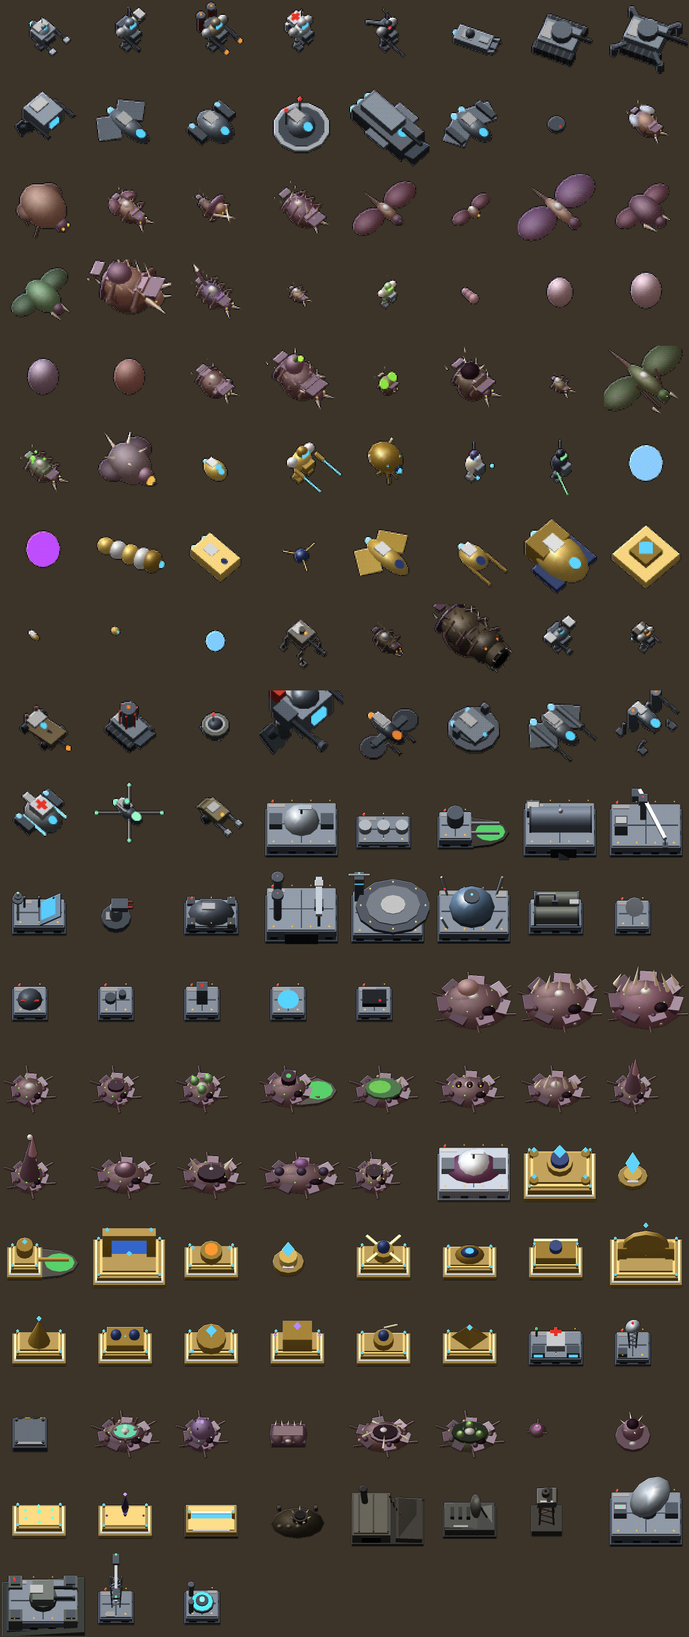
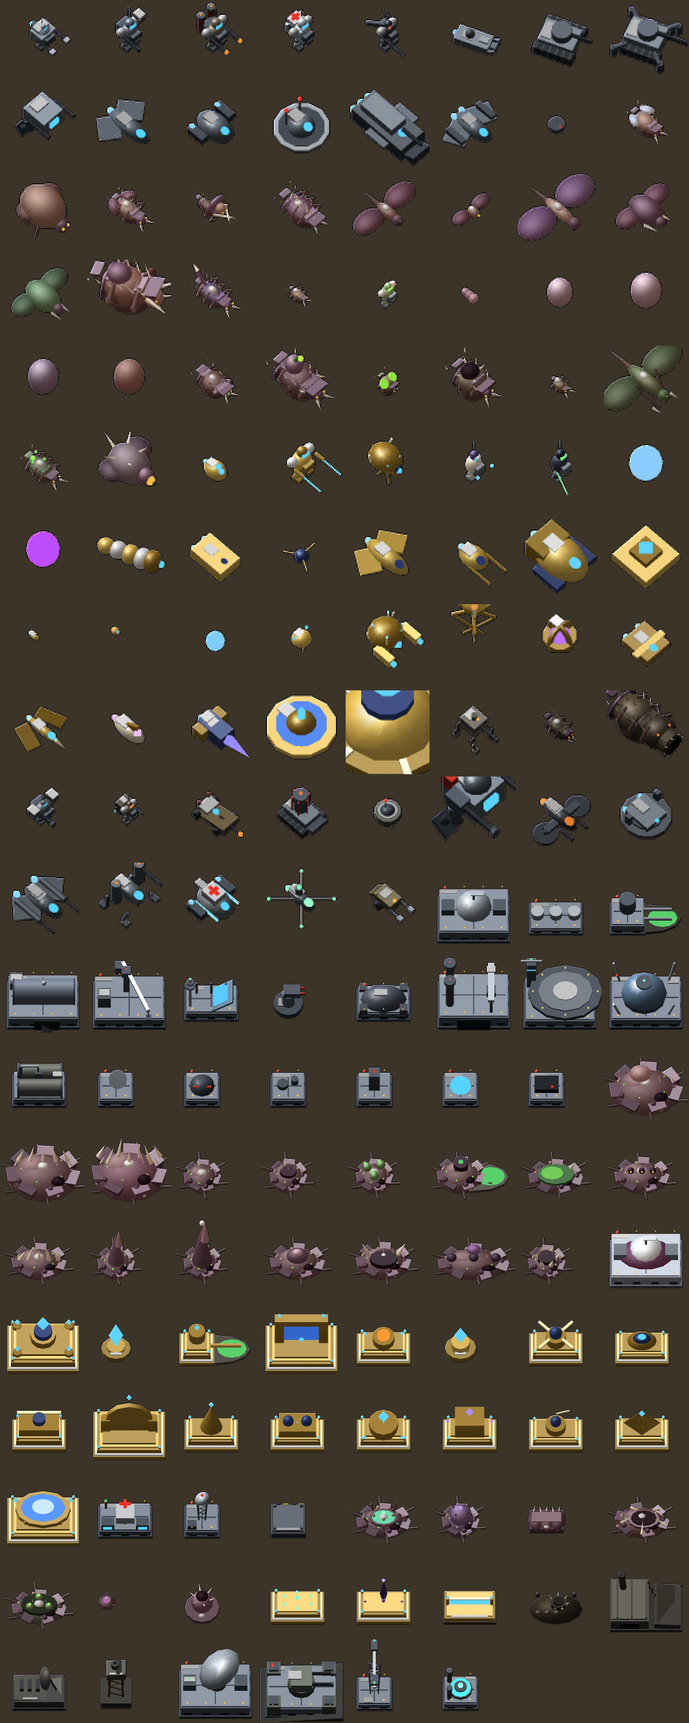
Bake the Protoss sprites and register test/zerg12.js
The Zerg test shipped passing but was never added to test/all.js, so it was green and unrun.

diff --git a/assets/atlas.js b/assets/atlas.js
@@ -1,2 +1,2 @@
 // generated by tools/bake.js
-const SPRITE_ATLAS = {"el":50,"dirs":16,"walk":8,"atk":5,"idle":4,"dvar":3,"dframes":2,"death":6,"units":{"scv":{"file":"assets/sprites/scv.png","mask":"assets/sprites/scv_m.png","S":93,"cols":16,"rows":{"i":0,"w":4,"a":12,"d":17}},"marine":{"file":"assets/sprites/marine.png","mask":"assets/sprites/marine_m.png","S":107,"cols":16,"rows":{"i":0,"w":4,"a":12,"d":17}},"firebat":{"file":"assets/sprites/firebat.png","mask":"assets/sprites/firebat_m.png","S":107,"cols":16,"rows":{"i":0,"w":4,"a":12,"d":17}},"medic":{"file":"assets/sprites/medic.png","mask":"assets/sprites/medic_m.png","S":107,"cols":16,"rows":{"i":0,"w":4,"a":12,"d":17}},"ghost":{"file":"assets/sprites/ghost.png","mask":"assets/sprites/ghost_m.png","S":104,"cols":16,"rows":{"i":0,"w":4,"a":12,"d":17}},"vulture":{"file":"assets/sprites/vulture.png","mask":"assets/sprites/vulture_m.png","S":98,"cols":32,"rows":{"i":0,"w":4,"a":12,"d":17}},"siege_tank":{"file":"assets/sprites/siege_tank.png","mask":"assets/sprites/siege_tank_m.png","S":106,"cols":32,"rows":{"i":0,"w":4,"a":12,"d":17}},"siege_tank_s":{"file":"assets/sprites/siege_tank_s.png","mask":"assets/sprites/siege_tank_s_m.png","S":106,"cols":32,"rows":{"i":0,"w":4,"a":12,"d":17}},"goliath":{"file":"assets/sprites/goliath.png","mask":"assets/sprites/goliath_m.png","S":112,"cols":16,"rows":{"i":0,"w":4,"a":12,"d":17}},"wraith":{"file":"assets/sprites/wraith.png","mask":"assets/sprites/wraith_m.png","S":112,"cols":16,"rows":{"i":0,"w":4,"a":12}},"dropship":{"file":"assets/sprites/dropship.png","mask":"assets/sprites/dropship_m.png","S":106,"cols":16,"rows":{"i":0,"w":4,"a":12}},"science_vessel":{"file":"assets/sprites/science_vessel.png","mask":"assets/sprites/science_vessel_m.png","S":118,"cols":16,"rows":{"i":0,"w":4,"a":12}},"battlecruiser":{"file":"assets/sprites/battlecruiser.png","mask":"assets/sprites/battlecruiser_m.png","S":141,"cols":16,"rows":{"i":0,"w":4,"a":12}},"valkyrie":{"file":"assets/sprites/valkyrie.png","mask":"assets/sprites/valkyrie_m.png","S":106,"cols":16,"rows":{"i":0,"w":4,"a":12}},"spider_mine":{"file":"assets/sprites/spider_mine.png","mask":"assets/sprites/spider_mine_m.png","S":67,"cols":16,"rows":{"i":0,"w":4,"a":12,"d":17}},"drone":{"file":"assets/sprites/drone.png","mask":"assets/sprites/drone_m.png","S":93,"cols":16,"rows":{"i":0,"w":4,"a":12,"d":17}},"overlord":{"file":"assets/sprites/overlord.png","mask":"assets/sprites/overlord_m.png","S":118,"cols":16,"rows":{"i":0,"w":4,"a":12}},"zergling":{"file":"assets/sprites/zergling.png","mask":"assets/sprites/zergling_m.png","S":97,"cols":16,"rows":{"i":0,"w":4,"a":12,"d":17}},"hydralisk":{"file":"assets/sprites/hydralisk.png","mask":"assets/sprites/hydralisk_m.png","S":84,"cols":16,"rows":{"i":0,"w":4,"a":12,"d":17}},"lurker":{"file":"assets/sprites/lurker.png","mask":"assets/sprites/lurker_m.png","S":98,"cols":16,"rows":{"i":0,"w":4,"a":12,"d":17}},"mutalisk":{"file":"assets/sprites/mutalisk.png","mask":"assets/sprites/mutalisk_m.png","S":98,"cols":16,"rows":{"i":0,"w":4,"a":12}},"scourge":{"file":"assets/sprites/scourge.png","mask":"assets/sprites/scourge_m.png","S":84,"cols":16,"rows":{"i":0,"w":4,"a":12}},"queen":{"file":"assets/sprites/queen.png","mask":"assets/sprites/queen_m.png","S":112,"cols":16,"rows":{"i":0,"w":4,"a":12}},"guardian":{"file":"assets/sprites/guardian.png","mask":"assets/sprites/guardian_m.png","S":106,"cols":16,"rows":{"i":0,"w":4,"a":12}},"devourer":{"file":"assets/sprites/devourer.png","mask":"assets/sprites/devourer_m.png","S":106,"cols":16,"rows":{"i":0,"w":4,"a":12}},"ultralisk":{"file":"assets/sprites/ultralisk.png","mask":"assets/sprites/ultralisk_m.png","S":129,"cols":32,"rows":{"i":0,"w":4,"a":12,"d":17}},"defiler":{"file":"assets/sprites/defiler.png","mask":"assets/sprites/defiler_m.png","S":98,"cols":16,"rows":{"i":0,"w":4,"a":12,"d":17}},"broodling":{"file":"assets/sprites/broodling.png","mask":"assets/sprites/broodling_m.png","S":67,"cols":16,"rows":{"i":0,"w":4,"a":12,"d":17}},"infested_terran":{"file":"assets/sprites/infested_terran.png","mask":"assets/sprites/infested_terran_m.png","S":84,"cols":16,"rows":{"i":0,"w":4,"a":12,"d":17}},"larva":{"file":"assets/sprites/larva.png","mask":"assets/sprites/larva_m.png","S":67,"cols":16,"rows":{"i":0,"w":4,"a":12,"d":17}},"egg":{"file":"assets/sprites/egg.png","mask":"assets/sprites/egg_m.png","S":84,"cols":16,"rows":{"i":0,"w":4,"a":12,"d":17}},"lurker_egg":{"file":"assets/sprites/lurker_egg.png","mask":"assets/sprites/lurker_egg_m.png","S":98,"cols":16,"rows":{"i":0,"w":4,"a":12,"d":17}},"cocoon":{"file":"assets/sprites/cocoon.png","mask":"assets/sprites/cocoon_m.png","S":98,"cols":16,"rows":{"i":0,"w":4,"a":12}},"brood_cocoon":{"file":"assets/sprites/brood_cocoon.png","mask":"assets/sprites/brood_cocoon_m.png","S":98,"cols":16,"rows":{"i":0,"w":4,"a":12,"d":17}},"roach":{"file":"assets/sprites/roach.png","mask":"assets/sprites/roach_m.png","S":91,"cols":16,"rows":{"i":0,"w":4,"a":12,"d":17}},"ravager":{"file":"assets/sprites/ravager.png","mask":"assets/sprites/ravager_m.png","S":112,"cols":16,"rows":{"i":0,"w":4,"a":12,"d":17}},"baneling":{"file":"assets/sprites/baneling.png","mask":"assets/sprites/baneling_m.png","S":84,"cols":16,"rows":{"i":0,"w":4,"a":12,"d":17}},"swarm_host":{"file":"assets/sprites/swarm_host.png","mask":"assets/sprites/swarm_host_m.png","S":105,"cols":16,"rows":{"i":0,"w":4,"a":12,"d":17}},"locust":{"file":"assets/sprites/locust.png","mask":"assets/sprites/locust_m.png","S":76,"cols":16,"rows":{"i":0,"w":4,"a":12,"d":17}},"viper":{"file":"assets/sprites/viper.png","mask":"assets/sprites/viper_m.png","S":112,"cols":16,"rows":{"i":0,"w":4,"a":12}},"infestor":{"file":"assets/sprites/infestor.png","mask":"assets/sprites/infestor_m.png","S":98,"cols":16,"rows":{"i":0,"w":4,"a":12,"d":17}},"overseer":{"file":"assets/sprites/overseer.png","mask":"assets/sprites/overseer_m.png","S":118,"cols":16,"rows":{"i":0,"w":4,"a":12}},"probe":{"file":"assets/sprites/probe.png","mask":"assets/sprites/probe_m.png","S":84,"cols":16,"rows":{"i":0,"w":4,"a":12,"d":17}},"zealot":{"file":"assets/sprites/zealot.png","mask":"assets/sprites/zealot_m.png","S":117,"cols":16,"rows":{"i":0,"w":4,"a":12,"d":17}},"dragoon":{"file":"assets/sprites/dragoon.png","mask":"assets/sprites/dragoon_m.png","S":112,"cols":16,"rows":{"i":0,"w":4,"a":12,"d":17}},"high_templar":{"file":"assets/sprites/high_templar.png","mask":"assets/sprites/high_templar_m.png","S":101,"cols":16,"rows":{"i":0,"w":4,"a":12,"d":17}},"dark_templar":{"file":"assets/sprites/dark_templar.png","mask":"assets/sprites/dark_templar_m.png","S":105,"cols":16,"rows":{"i":0,"w":4,"a":12,"d":17}},"archon":{"file":"assets/sprites/archon.png","mask":"assets/sprites/archon_m.png","S":106,"cols":16,"rows":{"i":0,"w":4,"a":12,"d":17}},"dark_archon":{"file":"assets/sprites/dark_archon.png","mask":"assets/sprites/dark_archon_m.png","S":106,"cols":16,"rows":{"i":0,"w":4,"a":12,"d":17}},"reaver":{"file":"assets/sprites/reaver.png","mask":"assets/sprites/reaver_m.png","S":118,"cols":32,"rows":{"i":0,"w":4,"a":12,"d":17}},"shuttle":{"file":"assets/sprites/shuttle.png","mask":"assets/sprites/shuttle_m.png","S":106,"cols":16,"rows":{"i":0,"w":4,"a":12}},"observer":{"file":"assets/sprites/observer.png","mask":"assets/sprites/observer_m.png","S":84,"cols":16,"rows":{"i":0,"w":4,"a":12}},"scout":{"file":"assets/sprites/scout.png","mask":"assets/sprites/scout_m.png","S":112,"cols":16,"rows":{"i":0,"w":4,"a":12}},"corsair":{"file":"assets/sprites/corsair.png","mask":"assets/sprites/corsair_m.png","S":112,"cols":16,"rows":{"i":0,"w":4,"a":12}},"carrier":{"file":"assets/sprites/carrier.png","mask":"assets/sprites/carrier_m.png","S":141,"cols":16,"rows":{"i":0,"w":4,"a":12}},"arbiter":{"file":"assets/sprites/arbiter.png","mask":"assets/sprites/arbiter_m.png","S":118,"cols":16,"rows":{"i":0,"w":4,"a":12}},"interceptor":{"file":"assets/sprites/interceptor.png","mask":"assets/sprites/interceptor_m.png","S":58,"cols":16,"rows":{"i":0,"w":4,"a":12}},"scarab":{"file":"assets/sprites/scarab.png","mask":"assets/sprites/scarab_m.png","S":49,"cols":16,"rows":{"i":0,"w":4,"a":12,"d":17}},"hallucination":{"file":"assets/sprites/hallucination.png","mask":"assets/sprites/hallucination_m.png","S":84,"cols":16,"rows":{"i":0,"w":4,"a":12,"d":17}},"sentinel":{"file":"assets/sprites/sentinel.png","mask":"assets/sprites/sentinel_m.png","S":101,"cols":16,"rows":{"i":0,"w":4,"a":12,"d":17}},"carrion_grub":{"file":"assets/sprites/carrion_grub.png","mask":"assets/sprites/carrion_grub_m.png","S":93,"cols":16,"rows":{"i":0,"w":4,"a":12,"d":17}},"carrion_maw":{"file":"assets/sprites/carrion_maw.png","mask":"assets/sprites/carrion_maw_m.png","S":129,"cols":16,"rows":{"i":0,"w":4,"a":12,"d":17}},"marauder":{"file":"assets/sprites/marauder.png","mask":"assets/sprites/marauder_m.png","S":84,"cols":16,"rows":{"i":0,"w":4,"a":12,"d":17}},"reaper":{"file":"assets/sprites/reaper.png","mask":"assets/sprites/reaper_m.png","S":84,"cols":16,"rows":{"i":0,"w":4,"a":12,"d":17}},"hellion":{"file":"assets/sprites/hellion.png","mask":"assets/sprites/hellion_m.png","S":98,"cols":16,"rows":{"i":0,"w":4,"a":12,"d":17}},"cyclone":{"file":"assets/sprites/cyclone.png","mask":"assets/sprites/cyclone_m.png","S":105,"cols":16,"rows":{"i":0,"w":4,"a":12,"d":17}},"widow_mine":{"file":"assets/sprites/widow_mine.png","mask":"assets/sprites/widow_mine_m.png","S":93,"cols":16,"rows":{"i":0,"w":4,"a":12,"d":17}},"thor":{"file":"assets/sprites/thor.png","mask":"assets/sprites/thor_m.png","S":129,"cols":16,"rows":{"i":0,"w":4,"a":12,"d":17}},"banshee":{"file":"assets/sprites/banshee.png","mask":"assets/sprites/banshee_m.png","S":112,"cols":16,"rows":{"i":0,"w":4,"a":12}},"liberator":{"file":"assets/sprites/liberator.png","mask":"assets/sprites/liberator_m.png","S":106,"cols":16,"rows":{"i":0,"w":4,"a":12}},"viking":{"file":"assets/sprites/viking.png","mask":"assets/sprites/viking_m.png","S":112,"cols":16,"rows":{"i":0,"w":4,"a":12}},"viking_a":{"file":"assets/sprites/viking_a.png","mask":"assets/sprites/viking_a_m.png","S":112,"cols":16,"rows":{"i":0,"w":4,"a":12,"d":17}},"medivac":{"file":"assets/sprites/medivac.png","mask":"assets/sprites/medivac_m.png","S":106,"cols":16,"rows":{"i":0,"w":4,"a":12}},"raven":{"file":"assets/sprites/raven.png","mask":"assets/sprites/raven_m.png","S":112,"cols":16,"rows":{"i":0,"w":4,"a":12}},"mule":{"file":"assets/sprites/mule.png","mask":"assets/sprites/mule_m.png","S":93,"cols":16,"rows":{"i":0,"w":4,"a":12,"d":17}}},"buildings":{"command_center":{"file":"assets/sprites/command_center.png","mask":"assets/sprites/command_center_m.png","W":128,"H":96,"M":18,"T":72},"supply_depot":{"file":"assets/sprites/supply_depot.png","mask":"assets/sprites/supply_depot_m.png","W":96,"H":64,"M":18,"T":72},"refinery":{"file":"assets/sprites/refinery.png","mask":"assets/sprites/refinery_m.png","W":128,"H":64,"M":18,"T":72},"barracks":{"file":"assets/sprites/barracks.png","mask":"assets/sprites/barracks_m.png","W":128,"H":96,"M":18,"T":72},"engineering_bay":{"file":"assets/sprites/engineering_bay.png","mask":"assets/sprites/engineering_bay_m.png","W":128,"H":96,"M":18,"T":72},"academy":{"file":"assets/sprites/academy.png","mask":"assets/sprites/academy_m.png","W":96,"H":64,"M":18,"T":72},"missile_turret":{"file":"assets/sprites/missile_turret.png","mask":"assets/sprites/missile_turret_m.png","W":64,"H":64,"M":18,"T":72},"bunker":{"file":"assets/sprites/bunker.png","mask":"assets/sprites/bunker_m.png","W":96,"H":64,"M":18,"T":72},"factory":{"file":"assets/sprites/factory.png","mask":"assets/sprites/factory_m.png","W":128,"H":96,"M":18,"T":72},"starport":{"file":"assets/sprites/starport.png","mask":"assets/sprites/starport_m.png","W":128,"H":96,"M":18,"T":72},"science_facility":{"file":"assets/sprites/science_facility.png","mask":"assets/sprites/science_facility_m.png","W":128,"H":96,"M":18,"T":72},"armory":{"file":"assets/sprites/armory.png","mask":"assets/sprites/armory_m.png","W":96,"H":64,"M":18,"T":72},"comsat_station":{"file":"assets/sprites/comsat_station.png","mask":"assets/sprites/comsat_station_m.png","W":64,"H":64,"M":18,"T":72},"nuclear_silo":{"file":"assets/sprites/nuclear_silo.png","mask":"assets/sprites/nuclear_silo_m.png","W":64,"H":64,"M":18,"T":72},"machine_shop":{"file":"assets/sprites/machine_shop.png","mask":"assets/sprites/machine_shop_m.png","W":64,"H":64,"M":18,"T":72},"control_tower":{"file":"assets/sprites/control_tower.png","mask":"assets/sprites/control_tower_m.png","W":64,"H":64,"M":18,"T":72},"physics_lab":{"file":"assets/sprites/physics_lab.png","mask":"assets/sprites/physics_lab_m.png","W":64,"H":64,"M":18,"T":72},"covert_ops":{"file":"assets/sprites/covert_ops.png","mask":"assets/sprites/covert_ops_m.png","W":64,"H":64,"M":18,"T":72},"hatchery":{"file":"assets/sprites/hatchery.png","mask":"assets/sprites/hatchery_m.png","W":128,"H":96,"M":18,"T":72},"lair":{"file":"assets/sprites/lair.png","mask":"assets/sprites/lair_m.png","W":128,"H":96,"M":18,"T":72},"hive":{"file":"assets/sprites/hive.png","mask":"assets/sprites/hive_m.png","W":128,"H":96,"M":18,"T":72},"creep_colony":{"file":"assets/sprites/creep_colony.png","mask":"assets/sprites/creep_colony_m.png","W":64,"H":64,"M":18,"T":72},"sunken_colony":{"file":"assets/sprites/sunken_colony.png","mask":"assets/sprites/sunken_colony_m.png","W":64,"H":64,"M":18,"T":72},"spore_colony":{"file":"assets/sprites/spore_colony.png","mask":"assets/sprites/spore_colony_m.png","W":64,"H":64,"M":18,"T":72},"extractor":{"file":"assets/sprites/extractor.png","mask":"assets/sprites/extractor_m.png","W":128,"H":64,"M":18,"T":72},"spawning_pool":{"file":"assets/sprites/spawning_pool.png","mask":"assets/sprites/spawning_pool_m.png","W":96,"H":64,"M":18,"T":72},"evolution_chamber":{"file":"assets/sprites/evolution_chamber.png","mask":"assets/sprites/evolution_chamber_m.png","W":96,"H":64,"M":18,"T":72},"hydralisk_den":{"file":"assets/sprites/hydralisk_den.png","mask":"assets/sprites/hydralisk_den_m.png","W":96,"H":64,"M":18,"T":72},"spire":{"file":"assets/sprites/spire.png","mask":"assets/sprites/spire_m.png","W":64,"H":64,"M":18,"T":72},"greater_spire":{"file":"assets/sprites/greater_spire.png","mask":"assets/sprites/greater_spire_m.png","W":64,"H":64,"M":18,"T":72},"queens_nest":{"file":"assets/sprites/queens_nest.png","mask":"assets/sprites/queens_nest_m.png","W":96,"H":64,"M":18,"T":72},"ultralisk_cavern":{"file":"assets/sprites/ultralisk_cavern.png","mask":"assets/sprites/ultralisk_cavern_m.png","W":96,"H":64,"M":18,"T":72},"defiler_mound":{"file":"assets/sprites/defiler_mound.png","mask":"assets/sprites/defiler_mound_m.png","W":128,"H":64,"M":18,"T":72},"nydus_canal":{"file":"assets/sprites/nydus_canal.png","mask":"assets/sprites/nydus_canal_m.png","W":64,"H":64,"M":18,"T":72},"infested_command_center":{"file":"assets/sprites/infested_command_center.png","mask":"assets/sprites/infested_command_center_m.png","W":128,"H":96,"M":18,"T":72},"nexus":{"file":"assets/sprites/nexus.png","mask":"assets/sprites/nexus_m.png","W":128,"H":96,"M":18,"T":72},"pylon":{"file":"assets/sprites/pylon.png","mask":"assets/sprites/pylon_m.png","W":64,"H":64,"M":18,"T":72},"assimilator":{"file":"assets/sprites/assimilator.png","mask":"assets/sprites/assimilator_m.png","W":128,"H":64,"M":18,"T":72},"gateway":{"file":"assets/sprites/gateway.png","mask":"assets/sprites/gateway_m.png","W":128,"H":96,"M":18,"T":72},"forge":{"file":"assets/sprites/forge.png","mask":"assets/sprites/forge_m.png","W":96,"H":64,"M":18,"T":72},"photon_cannon":{"file":"assets/sprites/photon_cannon.png","mask":"assets/sprites/photon_cannon_m.png","W":64,"H":64,"M":18,"T":72},"cybernetics_core":{"file":"assets/sprites/cybernetics_core.png","mask":"assets/sprites/cybernetics_core_m.png","W":96,"H":64,"M":18,"T":72},"shield_battery":{"file":"assets/sprites/shield_battery.png","mask":"assets/sprites/shield_battery_m.png","W":96,"H":64,"M":18,"T":72},"robotics_facility":{"file":"assets/sprites/robotics_facility.png","mask":"assets/sprites/robotics_facility_m.png","W":96,"H":64,"M":18,"T":72},"stargate":{"file":"assets/sprites/stargate.png","mask":"assets/sprites/stargate_m.png","W":128,"H":96,"M":18,"T":72},"citadel_of_adun":{"file":"assets/sprites/citadel_of_adun.png","mask":"assets/sprites/citadel_of_adun_m.png","W":96,"H":64,"M":18,"T":72},"robotics_support_bay":{"file":"assets/sprites/robotics_support_bay.png","mask":"assets/sprites/robotics_support_bay_m.png","W":96,"H":64,"M":18,"T":72},"fleet_beacon":{"file":"assets/sprites/fleet_beacon.png","mask":"assets/sprites/fleet_beacon_m.png","W":96,"H":64,"M":18,"T":72},"templar_archives":{"file":"assets/sprites/templar_archives.png","mask":"assets/sprites/templar_archives_m.png","W":96,"H":64,"M":18,"T":72},"observatory":{"file":"assets/sprites/observatory.png","mask":"assets/sprites/observatory_m.png","W":96,"H":64,"M":18,"T":72},"arbiter_tribunal":{"file":"assets/sprites/arbiter_tribunal.png","mask":"assets/sprites/arbiter_tribunal_m.png","W":96,"H":64,"M":18,"T":72},"aid_station":{"file":"assets/sprites/aid_station.png","mask":"assets/sprites/aid_station_m.png","W":96,"H":64,"M":18,"T":72},"scrambler_mast":{"file":"assets/sprites/scrambler_mast.png","mask":"assets/sprites/scrambler_mast_m.png","W":64,"H":64,"M":18,"T":72},"blast_barricade":{"file":"assets/sprites/blast_barricade.png","mask":"assets/sprites/blast_barricade_m.png","W":64,"H":64,"M":18,"T":72},"mending_pool":{"file":"assets/sprites/mending_pool.png","mask":"assets/sprites/mending_pool_m.png","W":96,"H":64,"M":18,"T":72},"miasma_gland":{"file":"assets/sprites/miasma_gland.png","mask":"assets/sprites/miasma_gland_m.png","W":64,"H":64,"M":18,"T":72},"carapace_ridge":{"file":"assets/sprites/carapace_ridge.png","mask":"assets/sprites/carapace_ridge_m.png","W":64,"H":64,"M":18,"T":72},"roach_warren":{"file":"assets/sprites/roach_warren.png","mask":"assets/sprites/roach_warren_m.png","W":96,"H":64,"M":18,"T":72},"infestation_pit":{"file":"assets/sprites/infestation_pit.png","mask":"assets/sprites/infestation_pit_m.png","W":96,"H":64,"M":18,"T":72},"creep_tumour":{"file":"assets/sprites/creep_tumour.png","mask":"assets/sprites/creep_tumour_m.png","W":32,"H":32,"M":18,"T":72},"nydus_worm":{"file":"assets/sprites/nydus_worm.png","mask":"assets/sprites/nydus_worm_m.png","W":64,"H":64,"M":18,"T":72},"rejuvenation_shrine":{"file":"assets/sprites/rejuvenation_shrine.png","mask":"assets/sprites/rejuvenation_shrine_m.png","W":96,"H":64,"M":18,"T":72},"null_obelisk":{"file":"assets/sprites/null_obelisk.png","mask":"assets/sprites/null_obelisk_m.png","W":96,"H":64,"M":18,"T":72},"warded_bastion":{"file":"assets/sprites/warded_bastion.png","mask":"assets/sprites/warded_bastion_m.png","W":96,"H":64,"M":18,"T":72},"carrion_warren":{"file":"assets/sprites/carrion_warren.png","mask":"assets/sprites/carrion_warren_m.png","W":96,"H":64,"M":18,"T":72},"derelict_foundry":{"file":"assets/sprites/derelict_foundry.png","mask":"assets/sprites/derelict_foundry_m.png","W":128,"H":96,"M":18,"T":72},"derelict_archive":{"file":"assets/sprites/derelict_archive.png","mask":"assets/sprites/derelict_archive_m.png","W":96,"H":64,"M":18,"T":72},"derelict_watchtower":{"file":"assets/sprites/derelict_watchtower.png","mask":"assets/sprites/derelict_watchtower_m.png","W":64,"H":64,"M":18,"T":72},"orbital_command":{"file":"assets/sprites/orbital_command.png","mask":"assets/sprites/orbital_command_m.png","W":128,"H":96,"M":18,"T":72},"planetary_fortress":{"file":"assets/sprites/planetary_fortress.png","mask":"assets/sprites/planetary_fortress_m.png","W":128,"H":96,"M":18,"T":72},"sensor_tower":{"file":"assets/sprites/sensor_tower.png","mask":"assets/sprites/sensor_tower_m.png","W":64,"H":64,"M":18,"T":72},"reactor":{"file":"assets/sprites/reactor.png","mask":"assets/sprites/reactor_m.png","W":64,"H":64,"M":18,"T":72}}};
+const SPRITE_ATLAS = {"el":50,"dirs":16,"walk":8,"atk":5,"idle":4,"dvar":3,"dframes":2,"death":6,"units":{"scv":{"file":"assets/sprites/scv.png","mask":"assets/sprites/scv_m.png","S":93,"cols":16,"rows":{"i":0,"w":4,"a":12,"d":17}},"marine":{"file":"assets/sprites/marine.png","mask":"assets/sprites/marine_m.png","S":107,"cols":16,"rows":{"i":0,"w":4,"a":12,"d":17}},"firebat":{"file":"assets/sprites/firebat.png","mask":"assets/sprites/firebat_m.png","S":107,"cols":16,"rows":{"i":0,"w":4,"a":12,"d":17}},"medic":{"file":"assets/sprites/medic.png","mask":"assets/sprites/medic_m.png","S":107,"cols":16,"rows":{"i":0,"w":4,"a":12,"d":17}},"ghost":{"file":"assets/sprites/ghost.png","mask":"assets/sprites/ghost_m.png","S":104,"cols":16,"rows":{"i":0,"w":4,"a":12,"d":17}},"vulture":{"file":"assets/sprites/vulture.png","mask":"assets/sprites/vulture_m.png","S":98,"cols":32,"rows":{"i":0,"w":4,"a":12,"d":17}},"siege_tank":{"file":"assets/sprites/siege_tank.png","mask":"assets/sprites/siege_tank_m.png","S":106,"cols":32,"rows":{"i":0,"w":4,"a":12,"d":17}},"siege_tank_s":{"file":"assets/sprites/siege_tank_s.png","mask":"assets/sprites/siege_tank_s_m.png","S":106,"cols":32,"rows":{"i":0,"w":4,"a":12,"d":17}},"goliath":{"file":"assets/sprites/goliath.png","mask":"assets/sprites/goliath_m.png","S":112,"cols":16,"rows":{"i":0,"w":4,"a":12,"d":17}},"wraith":{"file":"assets/sprites/wraith.png","mask":"assets/sprites/wraith_m.png","S":112,"cols":16,"rows":{"i":0,"w":4,"a":12}},"dropship":{"file":"assets/sprites/dropship.png","mask":"assets/sprites/dropship_m.png","S":106,"cols":16,"rows":{"i":0,"w":4,"a":12}},"science_vessel":{"file":"assets/sprites/science_vessel.png","mask":"assets/sprites/science_vessel_m.png","S":118,"cols":16,"rows":{"i":0,"w":4,"a":12}},"battlecruiser":{"file":"assets/sprites/battlecruiser.png","mask":"assets/sprites/battlecruiser_m.png","S":141,"cols":16,"rows":{"i":0,"w":4,"a":12}},"valkyrie":{"file":"assets/sprites/valkyrie.png","mask":"assets/sprites/valkyrie_m.png","S":106,"cols":16,"rows":{"i":0,"w":4,"a":12}},"spider_mine":{"file":"assets/sprites/spider_mine.png","mask":"assets/sprites/spider_mine_m.png","S":67,"cols":16,"rows":{"i":0,"w":4,"a":12,"d":17}},"drone":{"file":"assets/sprites/drone.png","mask":"assets/sprites/drone_m.png","S":93,"cols":16,"rows":{"i":0,"w":4,"a":12,"d":17}},"overlord":{"file":"assets/sprites/overlord.png","mask":"assets/sprites/overlord_m.png","S":118,"cols":16,"rows":{"i":0,"w":4,"a":12}},"zergling":{"file":"assets/sprites/zergling.png","mask":"assets/sprites/zergling_m.png","S":97,"cols":16,"rows":{"i":0,"w":4,"a":12,"d":17}},"hydralisk":{"file":"assets/sprites/hydralisk.png","mask":"assets/sprites/hydralisk_m.png","S":84,"cols":16,"rows":{"i":0,"w":4,"a":12,"d":17}},"lurker":{"file":"assets/sprites/lurker.png","mask":"assets/sprites/lurker_m.png","S":98,"cols":16,"rows":{"i":0,"w":4,"a":12,"d":17}},"mutalisk":{"file":"assets/sprites/mutalisk.png","mask":"assets/sprites/mutalisk_m.png","S":98,"cols":16,"rows":{"i":0,"w":4,"a":12}},"scourge":{"file":"assets/sprites/scourge.png","mask":"assets/sprites/scourge_m.png","S":84,"cols":16,"rows":{"i":0,"w":4,"a":12}},"queen":{"file":"assets/sprites/queen.png","mask":"assets/sprites/queen_m.png","S":112,"cols":16,"rows":{"i":0,"w":4,"a":12}},"guardian":{"file":"assets/sprites/guardian.png","mask":"assets/sprites/guardian_m.png","S":106,"cols":16,"rows":{"i":0,"w":4,"a":12}},"devourer":{"file":"assets/sprites/devourer.png","mask":"assets/sprites/devourer_m.png","S":106,"cols":16,"rows":{"i":0,"w":4,"a":12}},"ultralisk":{"file":"assets/sprites/ultralisk.png","mask":"assets/sprites/ultralisk_m.png","S":129,"cols":32,"rows":{"i":0,"w":4,"a":12,"d":17}},"defiler":{"file":"assets/sprites/defiler.png","mask":"assets/sprites/defiler_m.png","S":98,"cols":16,"rows":{"i":0,"w":4,"a":12,"d":17}},"broodling":{"file":"assets/sprites/broodling.png","mask":"assets/sprites/broodling_m.png","S":67,"cols":16,"rows":{"i":0,"w":4,"a":12,"d":17}},"infested_terran":{"file":"assets/sprites/infested_terran.png","mask":"assets/sprites/infested_terran_m.png","S":84,"cols":16,"rows":{"i":0,"w":4,"a":12,"d":17}},"larva":{"file":"assets/sprites/larva.png","mask":"assets/sprites/larva_m.png","S":67,"cols":16,"rows":{"i":0,"w":4,"a":12,"d":17}},"egg":{"file":"assets/sprites/egg.png","mask":"assets/sprites/egg_m.png","S":84,"cols":16,"rows":{"i":0,"w":4,"a":12,"d":17}},"lurker_egg":{"file":"assets/sprites/lurker_egg.png","mask":"assets/sprites/lurker_egg_m.png","S":98,"cols":16,"rows":{"i":0,"w":4,"a":12,"d":17}},"cocoon":{"file":"assets/sprites/cocoon.png","mask":"assets/sprites/cocoon_m.png","S":98,"cols":16,"rows":{"i":0,"w":4,"a":12}},"brood_cocoon":{"file":"assets/sprites/brood_cocoon.png","mask":"assets/sprites/brood_cocoon_m.png","S":98,"cols":16,"rows":{"i":0,"w":4,"a":12,"d":17}},"roach":{"file":"assets/sprites/roach.png","mask":"assets/sprites/roach_m.png","S":91,"cols":16,"rows":{"i":0,"w":4,"a":12,"d":17}},"ravager":{"file":"assets/sprites/ravager.png","mask":"assets/sprites/ravager_m.png","S":112,"cols":16,"rows":{"i":0,"w":4,"a":12,"d":17}},"baneling":{"file":"assets/sprites/baneling.png","mask":"assets/sprites/baneling_m.png","S":84,"cols":16,"rows":{"i":0,"w":4,"a":12,"d":17}},"swarm_host":{"file":"assets/sprites/swarm_host.png","mask":"assets/sprites/swarm_host_m.png","S":105,"cols":16,"rows":{"i":0,"w":4,"a":12,"d":17}},"locust":{"file":"assets/sprites/locust.png","mask":"assets/sprites/locust_m.png","S":76,"cols":16,"rows":{"i":0,"w":4,"a":12,"d":17}},"viper":{"file":"assets/sprites/viper.png","mask":"assets/sprites/viper_m.png","S":112,"cols":16,"rows":{"i":0,"w":4,"a":12}},"infestor":{"file":"assets/sprites/infestor.png","mask":"assets/sprites/infestor_m.png","S":98,"cols":16,"rows":{"i":0,"w":4,"a":12,"d":17}},"overseer":{"file":"assets/sprites/overseer.png","mask":"assets/sprites/overseer_m.png","S":118,"cols":16,"rows":{"i":0,"w":4,"a":12}},"probe":{"file":"assets/sprites/probe.png","mask":"assets/sprites/probe_m.png","S":84,"cols":16,"rows":{"i":0,"w":4,"a":12,"d":17}},"zealot":{"file":"assets/sprites/zealot.png","mask":"assets/sprites/zealot_m.png","S":117,"cols":16,"rows":{"i":0,"w":4,"a":12,"d":17}},"dragoon":{"file":"assets/sprites/dragoon.png","mask":"assets/sprites/dragoon_m.png","S":112,"cols":16,"rows":{"i":0,"w":4,"a":12,"d":17}},"high_templar":{"file":"assets/sprites/high_templar.png","mask":"assets/sprites/high_templar_m.png","S":101,"cols":16,"rows":{"i":0,"w":4,"a":12,"d":17}},"dark_templar":{"file":"assets/sprites/dark_templar.png","mask":"assets/sprites/dark_templar_m.png","S":105,"cols":16,"rows":{"i":0,"w":4,"a":12,"d":17}},"archon":{"file":"assets/sprites/archon.png","mask":"assets/sprites/archon_m.png","S":106,"cols":16,"rows":{"i":0,"w":4,"a":12,"d":17}},"dark_archon":{"file":"assets/sprites/dark_archon.png","mask":"assets/sprites/dark_archon_m.png","S":106,"cols":16,"rows":{"i":0,"w":4,"a":12,"d":17}},"reaver":{"file":"assets/sprites/reaver.png","mask":"assets/sprites/reaver_m.png","S":118,"cols":32,"rows":{"i":0,"w":4,"a":12,"d":17}},"shuttle":{"file":"assets/sprites/shuttle.png","mask":"assets/sprites/shuttle_m.png","S":106,"cols":16,"rows":{"i":0,"w":4,"a":12}},"observer":{"file":"assets/sprites/observer.png","mask":"assets/sprites/observer_m.png","S":84,"cols":16,"rows":{"i":0,"w":4,"a":12}},"scout":{"file":"assets/sprites/scout.png","mask":"assets/sprites/scout_m.png","S":112,"cols":16,"rows":{"i":0,"w":4,"a":12}},"corsair":{"file":"assets/sprites/corsair.png","mask":"assets/sprites/corsair_m.png","S":112,"cols":16,"rows":{"i":0,"w":4,"a":12}},"carrier":{"file":"assets/sprites/carrier.png","mask":"assets/sprites/carrier_m.png","S":141,"cols":16,"rows":{"i":0,"w":4,"a":12}},"arbiter":{"file":"assets/sprites/arbiter.png","mask":"assets/sprites/arbiter_m.png","S":118,"cols":16,"rows":{"i":0,"w":4,"a":12}},"interceptor":{"file":"assets/sprites/interceptor.png","mask":"assets/sprites/interceptor_m.png","S":58,"cols":16,"rows":{"i":0,"w":4,"a":12}},"scarab":{"file":"assets/sprites/scarab.png","mask":"assets/sprites/scarab_m.png","S":49,"cols":16,"rows":{"i":0,"w":4,"a":12,"d":17}},"hallucination":{"file":"assets/sprites/hallucination.png","mask":"assets/sprites/hallucination_m.png","S":84,"cols":16,"rows":{"i":0,"w":4,"a":12,"d":17}},"sentry":{"file":"assets/sprites/sentry.png","mask":"assets/sprites/sentry_m.png","S":93,"cols":16,"rows":{"i":0,"w":4,"a":12,"d":17}},"immortal":{"file":"assets/sprites/immortal.png","mask":"assets/sprites/immortal_m.png","S":101,"cols":16,"rows":{"i":0,"w":4,"a":12,"d":17}},"colossus":{"file":"assets/sprites/colossus.png","mask":"assets/sprites/colossus_m.png","S":129,"cols":16,"rows":{"i":0,"w":4,"a":12}},"disruptor":{"file":"assets/sprites/disruptor.png","mask":"assets/sprites/disruptor_m.png","S":112,"cols":16,"rows":{"i":0,"w":4,"a":12,"d":17}},"warp_prism":{"file":"assets/sprites/warp_prism.png","mask":"assets/sprites/warp_prism_m.png","S":106,"cols":16,"rows":{"i":0,"w":4,"a":12}},"phoenix":{"file":"assets/sprites/phoenix.png","mask":"assets/sprites/phoenix_m.png","S":98,"cols":16,"rows":{"i":0,"w":4,"a":12}},"oracle":{"file":"assets/sprites/oracle.png","mask":"assets/sprites/oracle_m.png","S":105,"cols":16,"rows":{"i":0,"w":4,"a":12}},"void_ray":{"file":"assets/sprites/void_ray.png","mask":"assets/sprites/void_ray_m.png","S":112,"cols":16,"rows":{"i":0,"w":4,"a":12}},"tempest":{"file":"assets/sprites/tempest.png","mask":"assets/sprites/tempest_m.png","S":118,"cols":16,"rows":{"i":0,"w":4,"a":12}},"mothership":{"file":"assets/sprites/mothership.png","mask":"assets/sprites/mothership_m.png","S":164,"cols":16,"rows":{"i":0,"w":4,"a":12}},"sentinel":{"file":"assets/sprites/sentinel.png","mask":"assets/sprites/sentinel_m.png","S":101,"cols":16,"rows":{"i":0,"w":4,"a":12,"d":17}},"carrion_grub":{"file":"assets/sprites/carrion_grub.png","mask":"assets/sprites/carrion_grub_m.png","S":93,"cols":16,"rows":{"i":0,"w":4,"a":12,"d":17}},"carrion_maw":{"file":"assets/sprites/carrion_maw.png","mask":"assets/sprites/carrion_maw_m.png","S":129,"cols":16,"rows":{"i":0,"w":4,"a":12,"d":17}},"marauder":{"file":"assets/sprites/marauder.png","mask":"assets/sprites/marauder_m.png","S":84,"cols":16,"rows":{"i":0,"w":4,"a":12,"d":17}},"reaper":{"file":"assets/sprites/reaper.png","mask":"assets/sprites/reaper_m.png","S":84,"cols":16,"rows":{"i":0,"w":4,"a":12,"d":17}},"hellion":{"file":"assets/sprites/hellion.png","mask":"assets/sprites/hellion_m.png","S":98,"cols":16,"rows":{"i":0,"w":4,"a":12,"d":17}},"cyclone":{"file":"assets/sprites/cyclone.png","mask":"assets/sprites/cyclone_m.png","S":105,"cols":16,"rows":{"i":0,"w":4,"a":12,"d":17}},"widow_mine":{"file":"assets/sprites/widow_mine.png","mask":"assets/sprites/widow_mine_m.png","S":93,"cols":16,"rows":{"i":0,"w":4,"a":12,"d":17}},"thor":{"file":"assets/sprites/thor.png","mask":"assets/sprites/thor_m.png","S":129,"cols":16,"rows":{"i":0,"w":4,"a":12,"d":17}},"banshee":{"file":"assets/sprites/banshee.png","mask":"assets/sprites/banshee_m.png","S":112,"cols":16,"rows":{"i":0,"w":4,"a":12}},"liberator":{"file":"assets/sprites/liberator.png","mask":"assets/sprites/liberator_m.png","S":106,"cols":16,"rows":{"i":0,"w":4,"a":12}},"viking":{"file":"assets/sprites/viking.png","mask":"assets/sprites/viking_m.png","S":112,"cols":16,"rows":{"i":0,"w":4,"a":12}},"viking_a":{"file":"assets/sprites/viking_a.png","mask":"assets/sprites/viking_a_m.png","S":112,"cols":16,"rows":{"i":0,"w":4,"a":12,"d":17}},"medivac":{"file":"assets/sprites/medivac.png","mask":"assets/sprites/medivac_m.png","S":106,"cols":16,"rows":{"i":0,"w":4,"a":12}},"raven":{"file":"assets/sprites/raven.png","mask":"assets/sprites/raven_m.png","S":112,"cols":16,"rows":{"i":0,"w":4,"a":12}},"mule":{"file":"assets/sprites/mule.png","mask":"assets/sprites/mule_m.png","S":93,"cols":16,"rows":{"i":0,"w":4,"a":12,"d":17}}},"buildings":{"command_center":{"file":"assets/sprites/command_center.png","mask":"assets/sprites/command_center_m.png","W":128,"H":96,"M":18,"T":72},"supply_depot":{"file":"assets/sprites/supply_depot.png","mask":"assets/sprites/supply_depot_m.png","W":96,"H":64,"M":18,"T":72},"refinery":{"file":"assets/sprites/refinery.png","mask":"assets/sprites/refinery_m.png","W":128,"H":64,"M":18,"T":72},"barracks":{"file":"assets/sprites/barracks.png","mask":"assets/sprites/barracks_m.png","W":128,"H":96,"M":18,"T":72},"engineering_bay":{"file":"assets/sprites/engineering_bay.png","mask":"assets/sprites/engineering_bay_m.png","W":128,"H":96,"M":18,"T":72},"academy":{"file":"assets/sprites/academy.png","mask":"assets/sprites/academy_m.png","W":96,"H":64,"M":18,"T":72},"missile_turret":{"file":"assets/sprites/missile_turret.png","mask":"assets/sprites/missile_turret_m.png","W":64,"H":64,"M":18,"T":72},"bunker":{"file":"assets/sprites/bunker.png","mask":"assets/sprites/bunker_m.png","W":96,"H":64,"M":18,"T":72},"factory":{"file":"assets/sprites/factory.png","mask":"assets/sprites/factory_m.png","W":128,"H":96,"M":18,"T":72},"starport":{"file":"assets/sprites/starport.png","mask":"assets/sprites/starport_m.png","W":128,"H":96,"M":18,"T":72},"science_facility":{"file":"assets/sprites/science_facility.png","mask":"assets/sprites/science_facility_m.png","W":128,"H":96,"M":18,"T":72},"armory":{"file":"assets/sprites/armory.png","mask":"assets/sprites/armory_m.png","W":96,"H":64,"M":18,"T":72},"comsat_station":{"file":"assets/sprites/comsat_station.png","mask":"assets/sprites/comsat_station_m.png","W":64,"H":64,"M":18,"T":72},"nuclear_silo":{"file":"assets/sprites/nuclear_silo.png","mask":"assets/sprites/nuclear_silo_m.png","W":64,"H":64,"M":18,"T":72},"machine_shop":{"file":"assets/sprites/machine_shop.png","mask":"assets/sprites/machine_shop_m.png","W":64,"H":64,"M":18,"T":72},"control_tower":{"file":"assets/sprites/control_tower.png","mask":"assets/sprites/control_tower_m.png","W":64,"H":64,"M":18,"T":72},"physics_lab":{"file":"assets/sprites/physics_lab.png","mask":"assets/sprites/physics_lab_m.png","W":64,"H":64,"M":18,"T":72},"covert_ops":{"file":"assets/sprites/covert_ops.png","mask":"assets/sprites/covert_ops_m.png","W":64,"H":64,"M":18,"T":72},"hatchery":{"file":"assets/sprites/hatchery.png","mask":"assets/sprites/hatchery_m.png","W":128,"H":96,"M":18,"T":72},"lair":{"file":"assets/sprites/lair.png","mask":"assets/sprites/lair_m.png","W":128,"H":96,"M":18,"T":72},"hive":{"file":"assets/sprites/hive.png","mask":"assets/sprites/hive_m.png","W":128,"H":96,"M":18,"T":72},"creep_colony":{"file":"assets/sprites/creep_colony.png","mask":"assets/sprites/creep_colony_m.png","W":64,"H":64,"M":18,"T":72},"sunken_colony":{"file":"assets/sprites/sunken_colony.png","mask":"assets/sprites/sunken_colony_m.png","W":64,"H":64,"M":18,"T":72},"spore_colony":{"file":"assets/sprites/spore_colony.png","mask":"assets/sprites/spore_colony_m.png","W":64,"H":64,"M":18,"T":72},"extractor":{"file":"assets/sprites/extractor.png","mask":"assets/sprites/extractor_m.png","W":128,"H":64,"M":18,"T":72},"spawning_pool":{"file":"assets/sprites/spawning_pool.png","mask":"assets/sprites/spawning_pool_m.png","W":96,"H":64,"M":18,"T":72},"evolution_chamber":{"file":"assets/sprites/evolution_chamber.png","mask":"assets/sprites/evolution_chamber_m.png","W":96,"H":64,"M":18,"T":72},"hydralisk_den":{"file":"assets/sprites/hydralisk_den.png","mask":"assets/sprites/hydralisk_den_m.png","W":96,"H":64,"M":18,"T":72},"spire":{"file":"assets/sprites/spire.png","mask":"assets/sprites/spire_m.png","W":64,"H":64,"M":18,"T":72},"greater_spire":{"file":"assets/sprites/greater_spire.png","mask":"assets/sprites/greater_spire_m.png","W":64,"H":64,"M":18,"T":72},"queens_nest":{"file":"assets/sprites/queens_nest.png","mask":"assets/sprites/queens_nest_m.png","W":96,"H":64,"M":18,"T":72},"ultralisk_cavern":{"file":"assets/sprites/ultralisk_cavern.png","mask":"assets/sprites/ultralisk_cavern_m.png","W":96,"H":64,"M":18,"T":72},"defiler_mound":{"file":"assets/sprites/defiler_mound.png","mask":"assets/sprites/defiler_mound_m.png","W":128,"H":64,"M":18,"T":72},"nydus_canal":{"file":"assets/sprites/nydus_canal.png","mask":"assets/sprites/nydus_canal_m.png","W":64,"H":64,"M":18,"T":72},"infested_command_center":{"file":"assets/sprites/infested_command_center.png","mask":"assets/sprites/infested_command_center_m.png","W":128,"H":96,"M":18,"T":72},"nexus":{"file":"assets/sprites/nexus.png","mask":"assets/sprites/nexus_m.png","W":128,"H":96,"M":18,"T":72},"pylon":{"file":"assets/sprites/pylon.png","mask":"assets/sprites/pylon_m.png","W":64,"H":64,"M":18,"T":72},"assimilator":{"file":"assets/sprites/assimilator.png","mask":"assets/sprites/assimilator_m.png","W":128,"H":64,"M":18,"T":72},"gateway":{"file":"assets/sprites/gateway.png","mask":"assets/sprites/gateway_m.png","W":128,"H":96,"M":18,"T":72},"forge":{"file":"assets/sprites/forge.png","mask":"assets/sprites/forge_m.png","W":96,"H":64,"M":18,"T":72},"photon_cannon":{"file":"assets/sprites/photon_cannon.png","mask":"assets/sprites/photon_cannon_m.png","W":64,"H":64,"M":18,"T":72},"cybernetics_core":{"file":"assets/sprites/cybernetics_core.png","mask":"assets/sprites/cybernetics_core_m.png","W":96,"H":64,"M":18,"T":72},"shield_battery":{"file":"assets/sprites/shield_battery.png","mask":"assets/sprites/shield_battery_m.png","W":96,"H":64,"M":18,"T":72},"robotics_facility":{"file":"assets/sprites/robotics_facility.png","mask":"assets/sprites/robotics_facility_m.png","W":96,"H":64,"M":18,"T":72},"stargate":{"file":"assets/sprites/stargate.png","mask":"assets/sprites/stargate_m.png","W":128,"H":96,"M":18,"T":72},"citadel_of_adun":{"file":"assets/sprites/citadel_of_adun.png","mask":"assets/sprites/citadel_of_adun_m.png","W":96,"H":64,"M":18,"T":72},"robotics_support_bay":{"file":"assets/sprites/robotics_support_bay.png","mask":"assets/sprites/robotics_support_bay_m.png","W":96,"H":64,"M":18,"T":72},"fleet_beacon":{"file":"assets/sprites/fleet_beacon.png","mask":"assets/sprites/fleet_beacon_m.png","W":96,"H":64,"M":18,"T":72},"templar_archives":{"file":"assets/sprites/templar_archives.png","mask":"assets/sprites/templar_archives_m.png","W":96,"H":64,"M":18,"T":72},"observatory":{"file":"assets/sprites/observatory.png","mask":"assets/sprites/observatory_m.png","W":96,"H":64,"M":18,"T":72},"arbiter_tribunal":{"file":"assets/sprites/arbiter_tribunal.png","mask":"assets/sprites/arbiter_tribunal_m.png","W":96,"H":64,"M":18,"T":72},"warp_gate":{"file":"assets/sprites/warp_gate.png","mask":"assets/sprites/warp_gate_m.png","W":128,"H":96,"M":18,"T":72},"aid_station":{"file":"assets/sprites/aid_station.png","mask":"assets/sprites/aid_station_m.png","W":96,"H":64,"M":18,"T":72},"scrambler_mast":{"file":"assets/sprites/scrambler_mast.png","mask":"assets/sprites/scrambler_mast_m.png","W":64,"H":64,"M":18,"T":72},"blast_barricade":{"file":"assets/sprites/blast_barricade.png","mask":"assets/sprites/blast_barricade_m.png","W":64,"H":64,"M":18,"T":72},"mending_pool":{"file":"assets/sprites/mending_pool.png","mask":"assets/sprites/mending_pool_m.png","W":96,"H":64,"M":18,"T":72},"miasma_gland":{"file":"assets/sprites/miasma_gland.png","mask":"assets/sprites/miasma_gland_m.png","W":64,"H":64,"M":18,"T":72},"carapace_ridge":{"file":"assets/sprites/carapace_ridge.png","mask":"assets/sprites/carapace_ridge_m.png","W":64,"H":64,"M":18,"T":72},"roach_warren":{"file":"assets/sprites/roach_warren.png","mask":"assets/sprites/roach_warren_m.png","W":96,"H":64,"M":18,"T":72},"infestation_pit":{"file":"assets/sprites/infestation_pit.png","mask":"assets/sprites/infestation_pit_m.png","W":96,"H":64,"M":18,"T":72},"creep_tumour":{"file":"assets/sprites/creep_tumour.png","mask":"assets/sprites/creep_tumour_m.png","W":32,"H":32,"M":18,"T":72},"nydus_worm":{"file":"assets/sprites/nydus_worm.png","mask":"assets/sprites/nydus_worm_m.png","W":64,"H":64,"M":18,"T":72},"rejuvenation_shrine":{"file":"assets/sprites/rejuvenation_shrine.png","mask":"assets/sprites/rejuvenation_shrine_m.png","W":96,"H":64,"M":18,"T":72},"null_obelisk":{"file":"assets/sprites/null_obelisk.png","mask":"assets/sprites/null_obelisk_m.png","W":96,"H":64,"M":18,"T":72},"warded_bastion":{"file":"assets/sprites/warded_bastion.png","mask":"assets/sprites/warded_bastion_m.png","W":96,"H":64,"M":18,"T":72},"carrion_warren":{"file":"assets/sprites/carrion_warren.png","mask":"assets/sprites/carrion_warren_m.png","W":96,"H":64,"M":18,"T":72},"derelict_foundry":{"file":"assets/sprites/derelict_foundry.png","mask":"assets/sprites/derelict_foundry_m.png","W":128,"H":96,"M":18,"T":72},"derelict_archive":{"file":"assets/sprites/derelict_archive.png","mask":"assets/sprites/derelict_archive_m.png","W":96,"H":64,"M":18,"T":72},"derelict_watchtower":{"file":"assets/sprites/derelict_watchtower.png","mask":"assets/sprites/derelict_watchtower_m.png","W":64,"H":64,"M":18,"T":72},"orbital_command":{"file":"assets/sprites/orbital_command.png","mask":"assets/sprites/orbital_command_m.png","W":128,"H":96,"M":18,"T":72},"planetary_fortress":{"file":"assets/sprites/planetary_fortress.png","mask":"assets/sprites/planetary_fortress_m.png","W":128,"H":96,"M":18,"T":72},"sensor_tower":{"file":"assets/sprites/sensor_tower.png","mask":"assets/sprites/sensor_tower_m.png","W":64,"H":64,"M":18,"T":72},"reactor":{"file":"assets/sprites/reactor.png","mask":"assets/sprites/reactor_m.png","W":64,"H":64,"M":18,"T":72}}};

diff --git a/test/all.js b/test/all.js
@@ -83,6 +83,7 @@ const TESTS = [
   { name: 'zoom', args: ['zoom.js'], what: 'strategic zoom clamps, anchors and swaps to icons; night runs without G.daylight' },
   { name: 'skirmish', args: ['skirmish.js'], what: 'the setup screen: every setting reaches G.init, and the default is still today\'s game' },
   { name: 'terran12', args: ['terran12.js'], what: 'M12 Terran: the MULE expires, the Reactor doubles, the Viking has two sets of teeth' },
+  { name: 'zerg12', args: ['zerg12.js'], what: 'M12 Zerg: tumours spread and stay additive, larva inject, crawlers that walk' },
   { name: 'protoss12', args: ['protoss12.js'], what: 'M12 Protoss: warp-in respects the psi grid, a force field is terrain, chrono cannot stack' },
 ];
 
